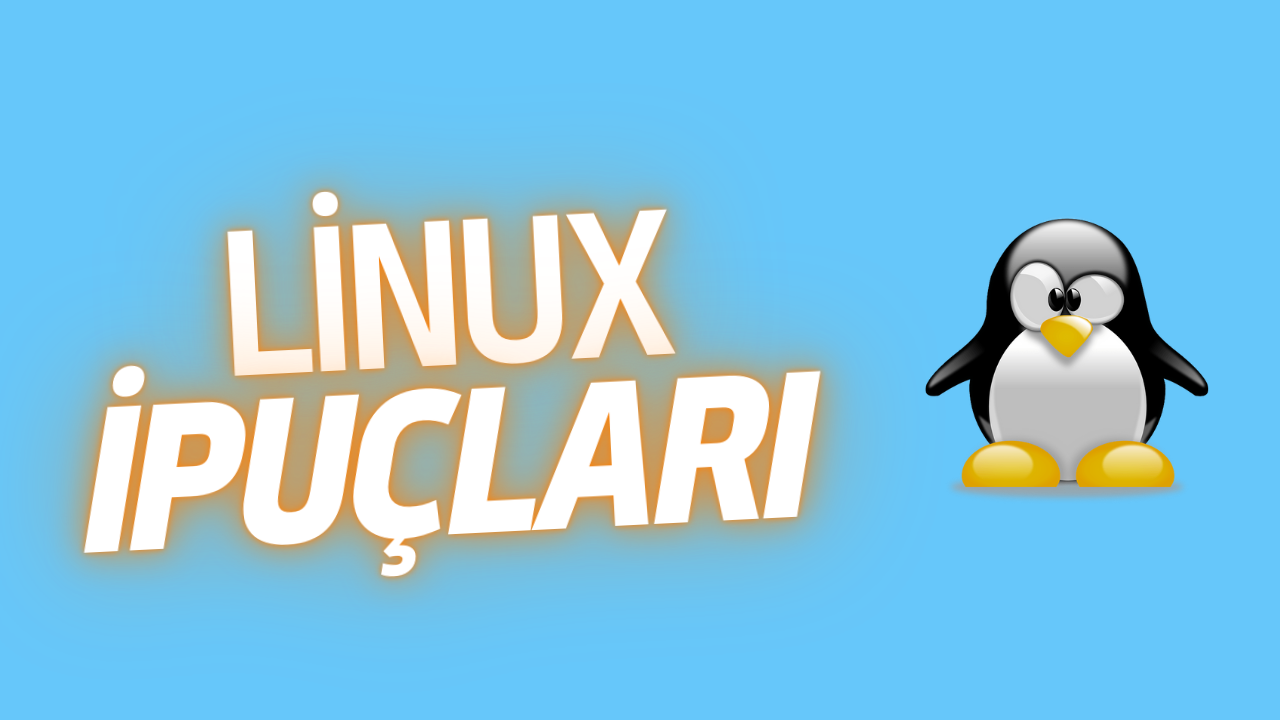
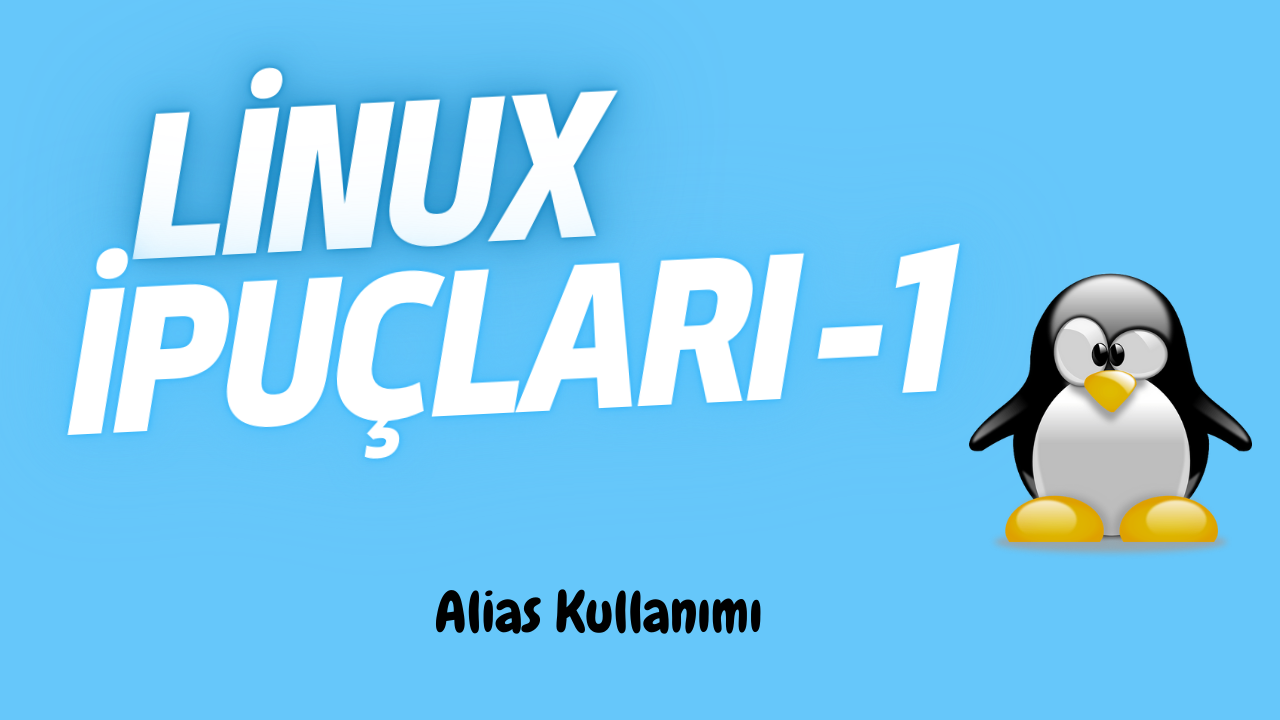
v0.7

diff --git a/index.html b/index.html
@@ -1141,12 +1141,11 @@ Temel Bilim ve Mühendislik dışında hobi olarak kendimi yazılım alanında g
 								<span class="category">Youtube</span>
 							</a>
 							<a href="https://medium.com/@alibedirhan.d/linux-i̇puçları-75af950d3098" target="_blank">
-								<img src="images/blog/Y7.png" alt="Linux İpuçları | alias kullanımı
-" />
+								<img src="images/blog/Y7.png" alt="Linux İpuçları -1 | alias kullanımı" />
 							</a>
 						</div>
 						<div class="details">
-							<h4 class="my-0 title"><a href="https://medium.com/@alibedirhan.d/linux-i̇puçları-75af950d3098" target="_blank">Linux İpuçları | alias kullanımı</a></h4>
+							<h4 class="my-0 title"><a href="https://medium.com/@alibedirhan.d/linux-i̇puçları-75af950d3098" target="_blank">Linux İpuçları -1 | alias kullanımı</a></h4>
 							<ul class="list-inline meta mb-0 mt-2">
 								<li class="list-inline-item">26 Nisan 2023</li>
 								<li class="list-inline-item">medium.com/@alibedirhan.d</li>
@@ -1156,8 +1155,45 @@ Temel Bilim ve Mühendislik dışında hobi olarak kendimi yazılım alanında g
 				</div>
 
 				<div class="col-md-4">
-					<!-- blog item -->			
-
+					<!-- blog item -->
+					<div class="blog-item rounded bg-dark shadow-dark wow fadeIn">
+						<div class="thumb">
+							<a href="index.html#">
+								<span class="category">Youtube</span>
+							</a>
+							<a href="https://medium.com/@alibedirhan.d/linux-i̇puçları-2-terminal-kullanımı-f20a32c361ed" target="_blank">
+								<img src="images/blog/Y8.png" alt="Linux İpuçları -2 | Terminal Kullanımı" />
+							</a>
+						</div>
+						<div class="details">
+							<h4 class="my-0 title"><a href="https://medium.com/@alibedirhan.d/linux-i̇puçları-2-terminal-kullanımı-f20a32c361ed" target="_blank">Linux İpuçları -2 | Terminal Kullanımı</a></h4>
+							<ul class="list-inline meta mb-0 mt-2">
+								<li class="list-inline-item">1 Haziran 2023</li>
+								<li class="list-inline-item">medium.com/@alibedirhan.d</li>
+							</ul>
+						</div>
+					</div>
+				</div>
+				<div class="col-md-4">				
+					<!-- blog item -->
+					<div class="blog-item rounded bg-dark shadow-dark wow fadeIn">
+						<div class="thumb">
+							<a href="index.html#">
+								<span class="category">Youtube</span>
+							</a>
+							<a href="https://medium.com/@alibedirhan.d/linux-i̇puçları-3-tldr-neofetch-cmatrix-b2c8b586610c" target="_blank">
+								<img src="images/blog/Y9.png" alt="Linux İpuçları -3 | tldr | neofetch | cmatrix" />
+							</a>
+						</div>
+						<div class="details">
+							<h4 class="my-0 title"><a href="https://medium.com/@alibedirhan.d/lnux-i̇puçları-3-tldr-neofetch-cmatrix-b2c8b586610c" target="_blank">Linux İpuçları -3 | tldr | neofetch | cmatrix</a></h4>
+							<ul class="list-inline meta mb-0 mt-2">
+								<li class="list-inline-item">2 Haziran 2023</li>
+								<li class="list-inline-item">medium.com/@alibedirhan.d</li>
+							</ul>
+						</div>
+					</div>
+				</div>
 			</div>
 
 		</div>
